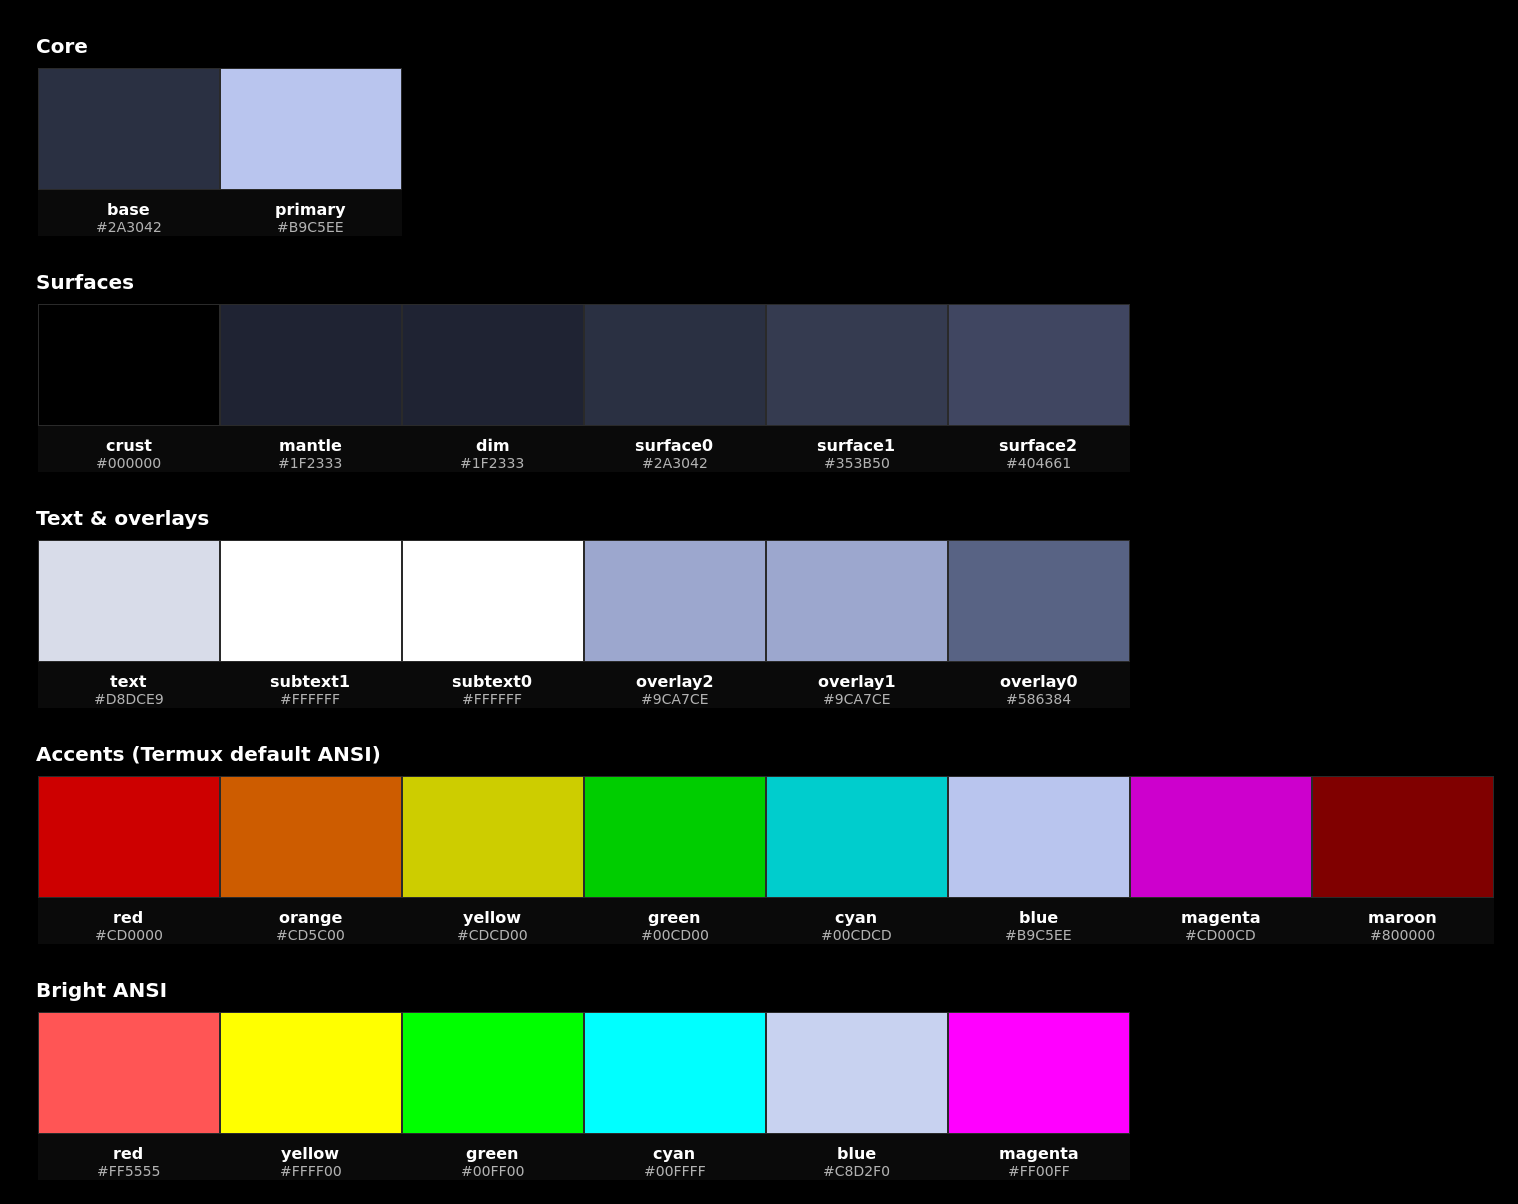
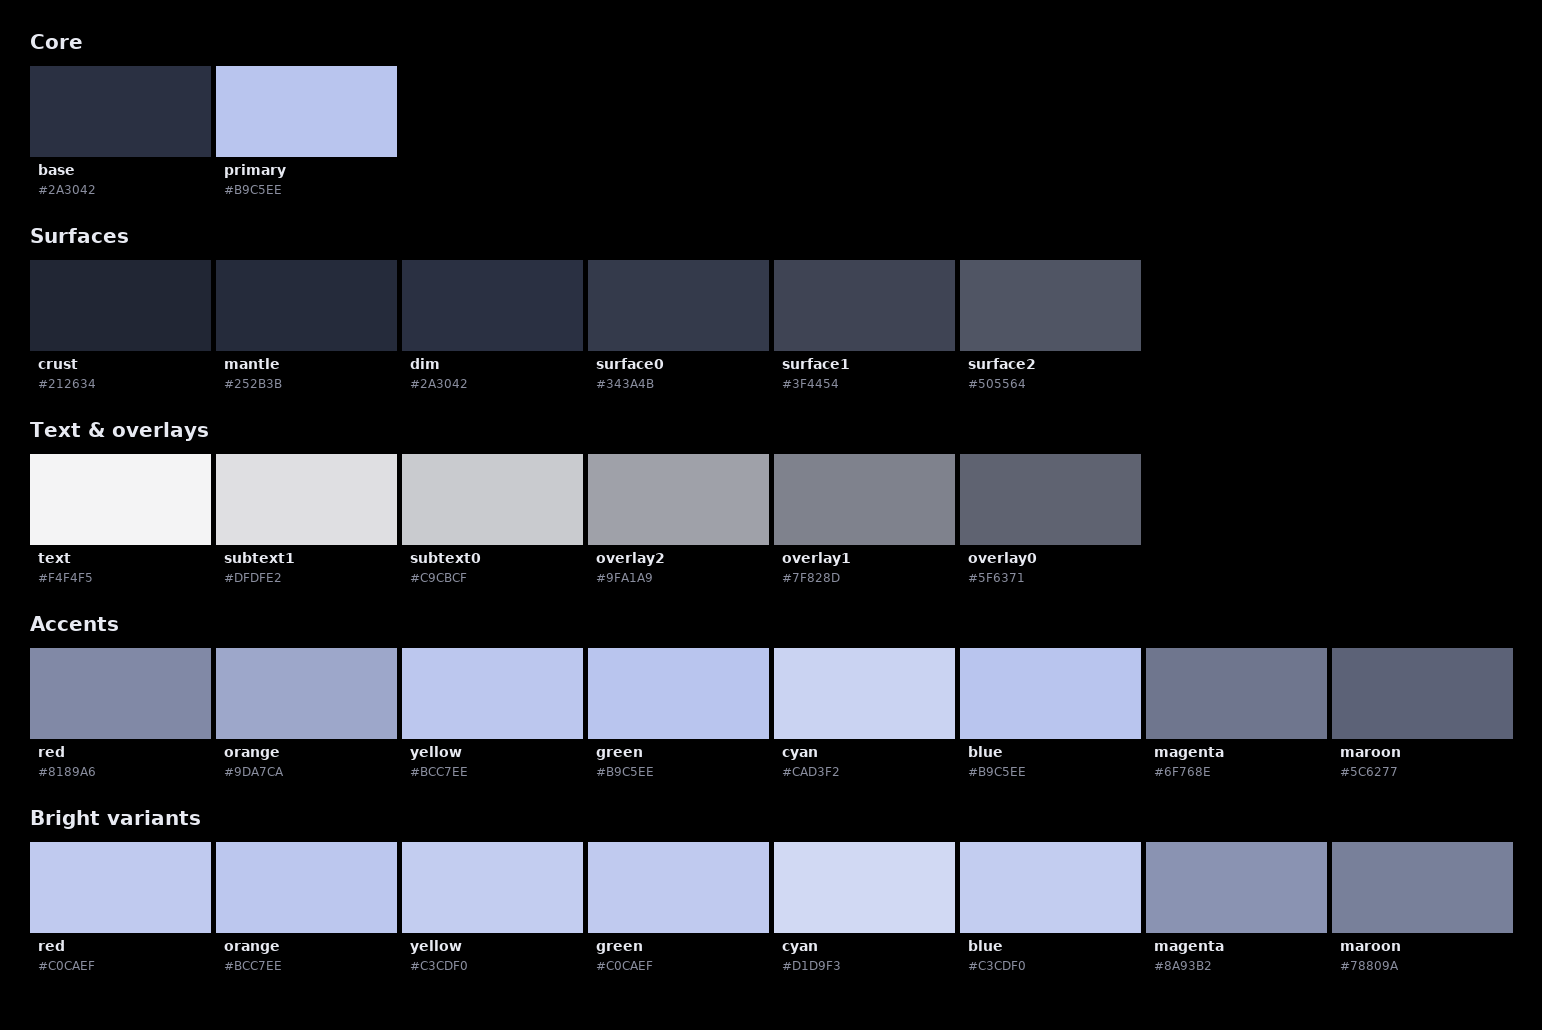
preview: regenerate from derived palette (no more hardcoded ANSI)
assets/preview.png now reflects the new derivation: monochromatic
accents pulled from primary instead of the old Termux-default
rainbow. scripts/gen-preview.py mirrors the math in
sturq/nix-config:lib/palette.nix.

diff --git a/scripts/gen-preview.py b/scripts/gen-preview.py
@@ -1,0 +1,139 @@
+#!/usr/bin/env python3
+"""
+Render assets/preview.png — the small overview grid showing every
+derived colour in the palette. Pure black background, swatches stacked
+in tight rows. Same derivation math as scripts/render-derivation.py.
+"""
+import json
+from pathlib import Path
+from PIL import Image, ImageDraw, ImageFont
+
+ROOT = Path(__file__).resolve().parent.parent
+PALETTE = json.loads((ROOT / "formats" / "palette.json").read_text())
+
+BASE    = PALETTE["core"]["base"]
+PRIMARY = PALETTE["core"]["primary"]
+
+
+def hex_to_rgb(h):
+    h = h.lstrip("#")
+    return tuple(int(h[i:i+2], 16) for i in (0, 2, 4))
+
+def rgb_to_hex(rgb):
+    return "#{:02X}{:02X}{:02X}".format(*(max(0, min(255, c)) for c in rgb))
+
+def mix(a, b, pct):
+    ra, rb = hex_to_rgb(a), hex_to_rgb(b)
+    return rgb_to_hex(tuple((x * (100 - pct) + y * pct) // 100 for x, y in zip(ra, rb)))
+
+lighten = lambda c, p: mix(c, "#FFFFFF", p)
+darken  = lambda c, p: mix(c, "#000000", p)
+
+
+# Mirror lib/palette.nix exactly
+core = {"base": BASE, "primary": PRIMARY}
+
+surfaces = {
+    "crust":    darken(BASE, 20),
+    "mantle":   darken(BASE, 10),
+    "dim":      BASE,
+    "surface0": lighten(BASE, 5),
+    "surface1": lighten(BASE, 10),
+    "surface2": lighten(BASE, 18),
+}
+
+text = {
+    "text":     mix("#FFFFFF", BASE, 5),
+    "subtext1": mix("#FFFFFF", BASE, 15),
+    "subtext0": mix("#FFFFFF", BASE, 25),
+    "overlay2": mix("#FFFFFF", BASE, 45),
+    "overlay1": mix("#FFFFFF", BASE, 60),
+    "overlay0": mix("#FFFFFF", BASE, 75),
+}
+
+accents = {
+    "red":     darken(PRIMARY, 30),
+    "orange":  darken(PRIMARY, 15),
+    "yellow":  lighten(PRIMARY, 5),
+    "green":   PRIMARY,
+    "cyan":    lighten(PRIMARY, 25),
+    "blue":    PRIMARY,
+    "magenta": darken(PRIMARY, 40),
+    "maroon":  darken(PRIMARY, 50),
+}
+
+bright = {
+    "red":     mix(PRIMARY, "#FFFFFF", 10),
+    "orange":  lighten(PRIMARY, 5),
+    "yellow":  lighten(PRIMARY, 15),
+    "green":   lighten(PRIMARY, 10),
+    "cyan":    lighten(PRIMARY, 35),
+    "blue":    lighten(PRIMARY, 15),
+    "magenta": darken(PRIMARY, 25),
+    "maroon":  darken(PRIMARY, 35),
+}
+
+
+# ---- layout -----------------------------------------------------------------
+SWATCH_W, SWATCH_H = 180, 90
+LABEL_H = 50
+PAD = 30
+GAP = 6
+TITLE_H = 36
+SECTION_GAP = 18
+
+ROWS = [
+    ("Core", core),
+    ("Surfaces", surfaces),
+    ("Text & overlays", text),
+    ("Accents", accents),
+    ("Bright variants", bright),
+]
+
+# Compute canvas size
+max_cols = max(len(items) for _, items in ROWS)
+W = PAD * 2 + max_cols * SWATCH_W + (max_cols - 1) * GAP
+H_per_row = TITLE_H + SWATCH_H + LABEL_H + SECTION_GAP
+H = PAD * 2 + len(ROWS) * H_per_row
+
+
+def find_font(size, bold=False):
+    candidates = [
+        "/data/data/com.termux/files/usr/share/fonts/TTF/DejaVuSans-Bold.ttf" if bold
+            else "/data/data/com.termux/files/usr/share/fonts/TTF/DejaVuSans.ttf",
+        "/system/fonts/Roboto-Bold.ttf" if bold else "/system/fonts/Roboto-Regular.ttf",
+        "/usr/share/fonts/truetype/dejavu/DejaVuSans-Bold.ttf" if bold
+            else "/usr/share/fonts/truetype/dejavu/DejaVuSans.ttf",
+    ]
+    for c in candidates:
+        if Path(c).exists():
+            return ImageFont.truetype(c, size)
+    return ImageFont.load_default()
+
+f_title = find_font(20, bold=True)
+f_name  = find_font(14, bold=True)
+f_hex   = find_font(12)
+
+INK = "#E8EAF2"
+INK_DIM = "#8A8E9F"
+
+img = Image.new("RGB", (W, H), "#000000")
+d = ImageDraw.Draw(img)
+
+y = PAD
+for title, items in ROWS:
+    d.text((PAD, y), title, fill=INK, font=f_title)
+    y += TITLE_H
+
+    x = PAD
+    for name, hex_ in items.items():
+        d.rectangle([x, y, x + SWATCH_W, y + SWATCH_H], fill=hex_)
+        d.text((x + 8, y + SWATCH_H + 6), name, fill=INK, font=f_name)
+        d.text((x + 8, y + SWATCH_H + 26), hex_.upper(), fill=INK_DIM, font=f_hex)
+        x += SWATCH_W + GAP
+    y += SWATCH_H + LABEL_H + SECTION_GAP
+
+out = ROOT / "assets" / "preview.png"
+out.parent.mkdir(exist_ok=True)
+img.save(out)
+print(f"wrote {out} ({W}x{H})")